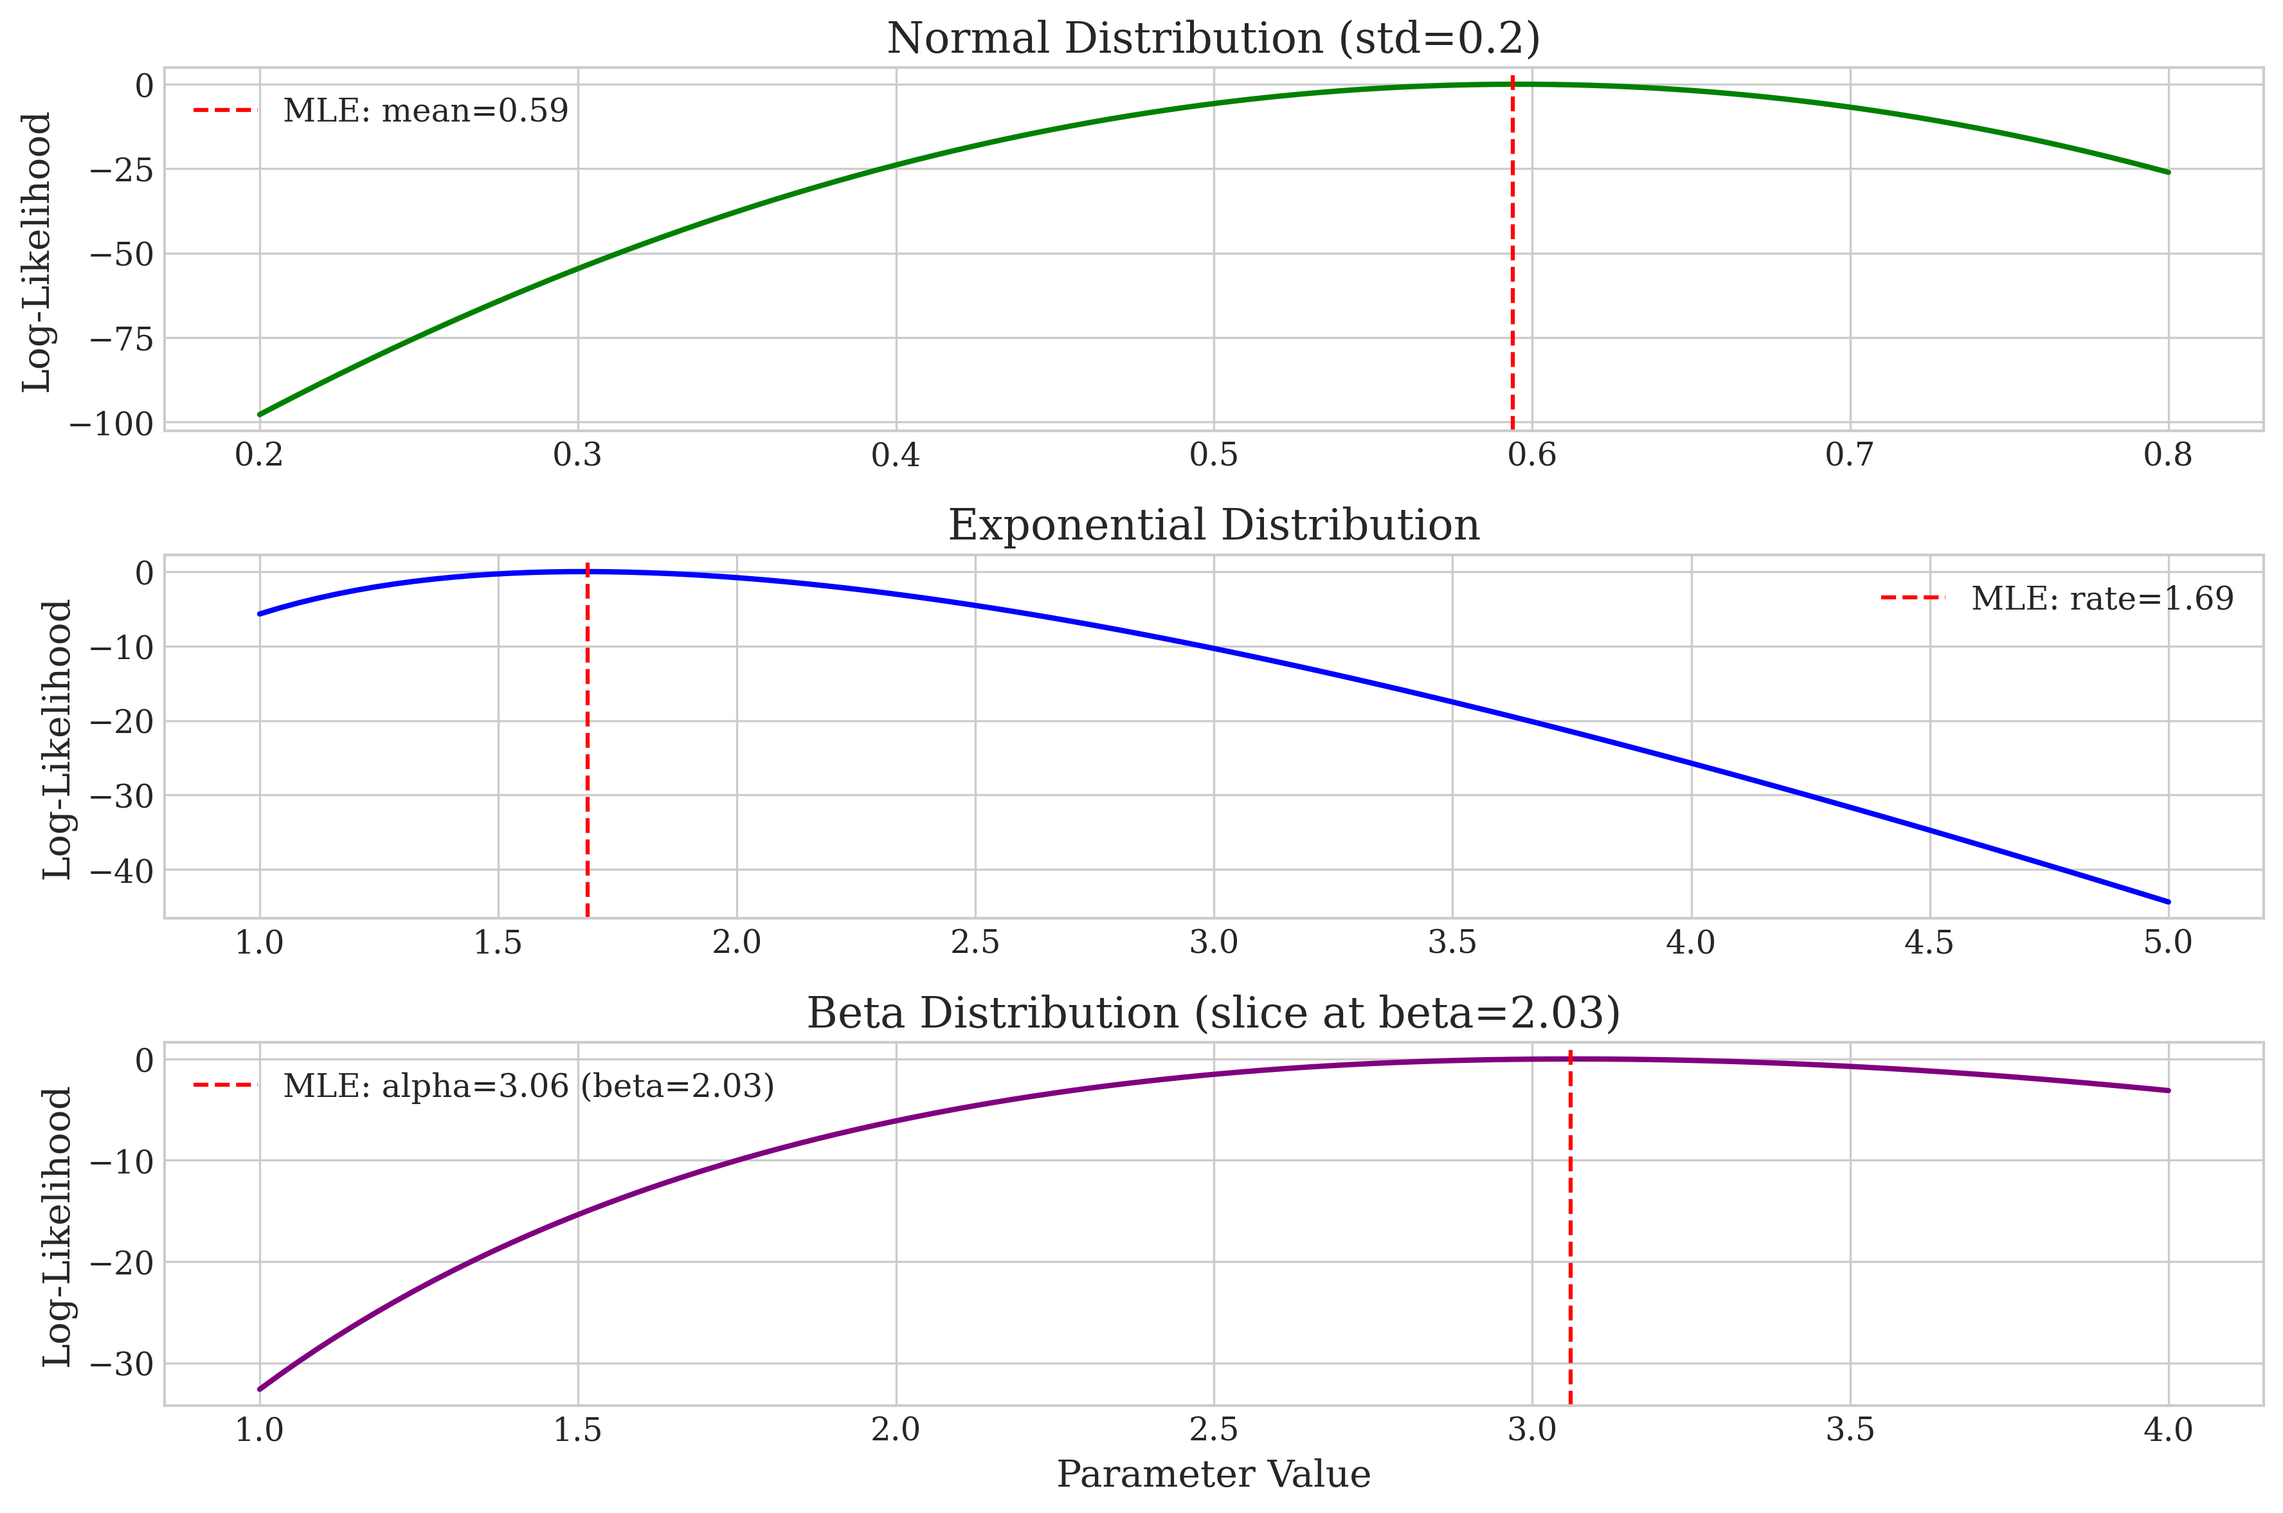
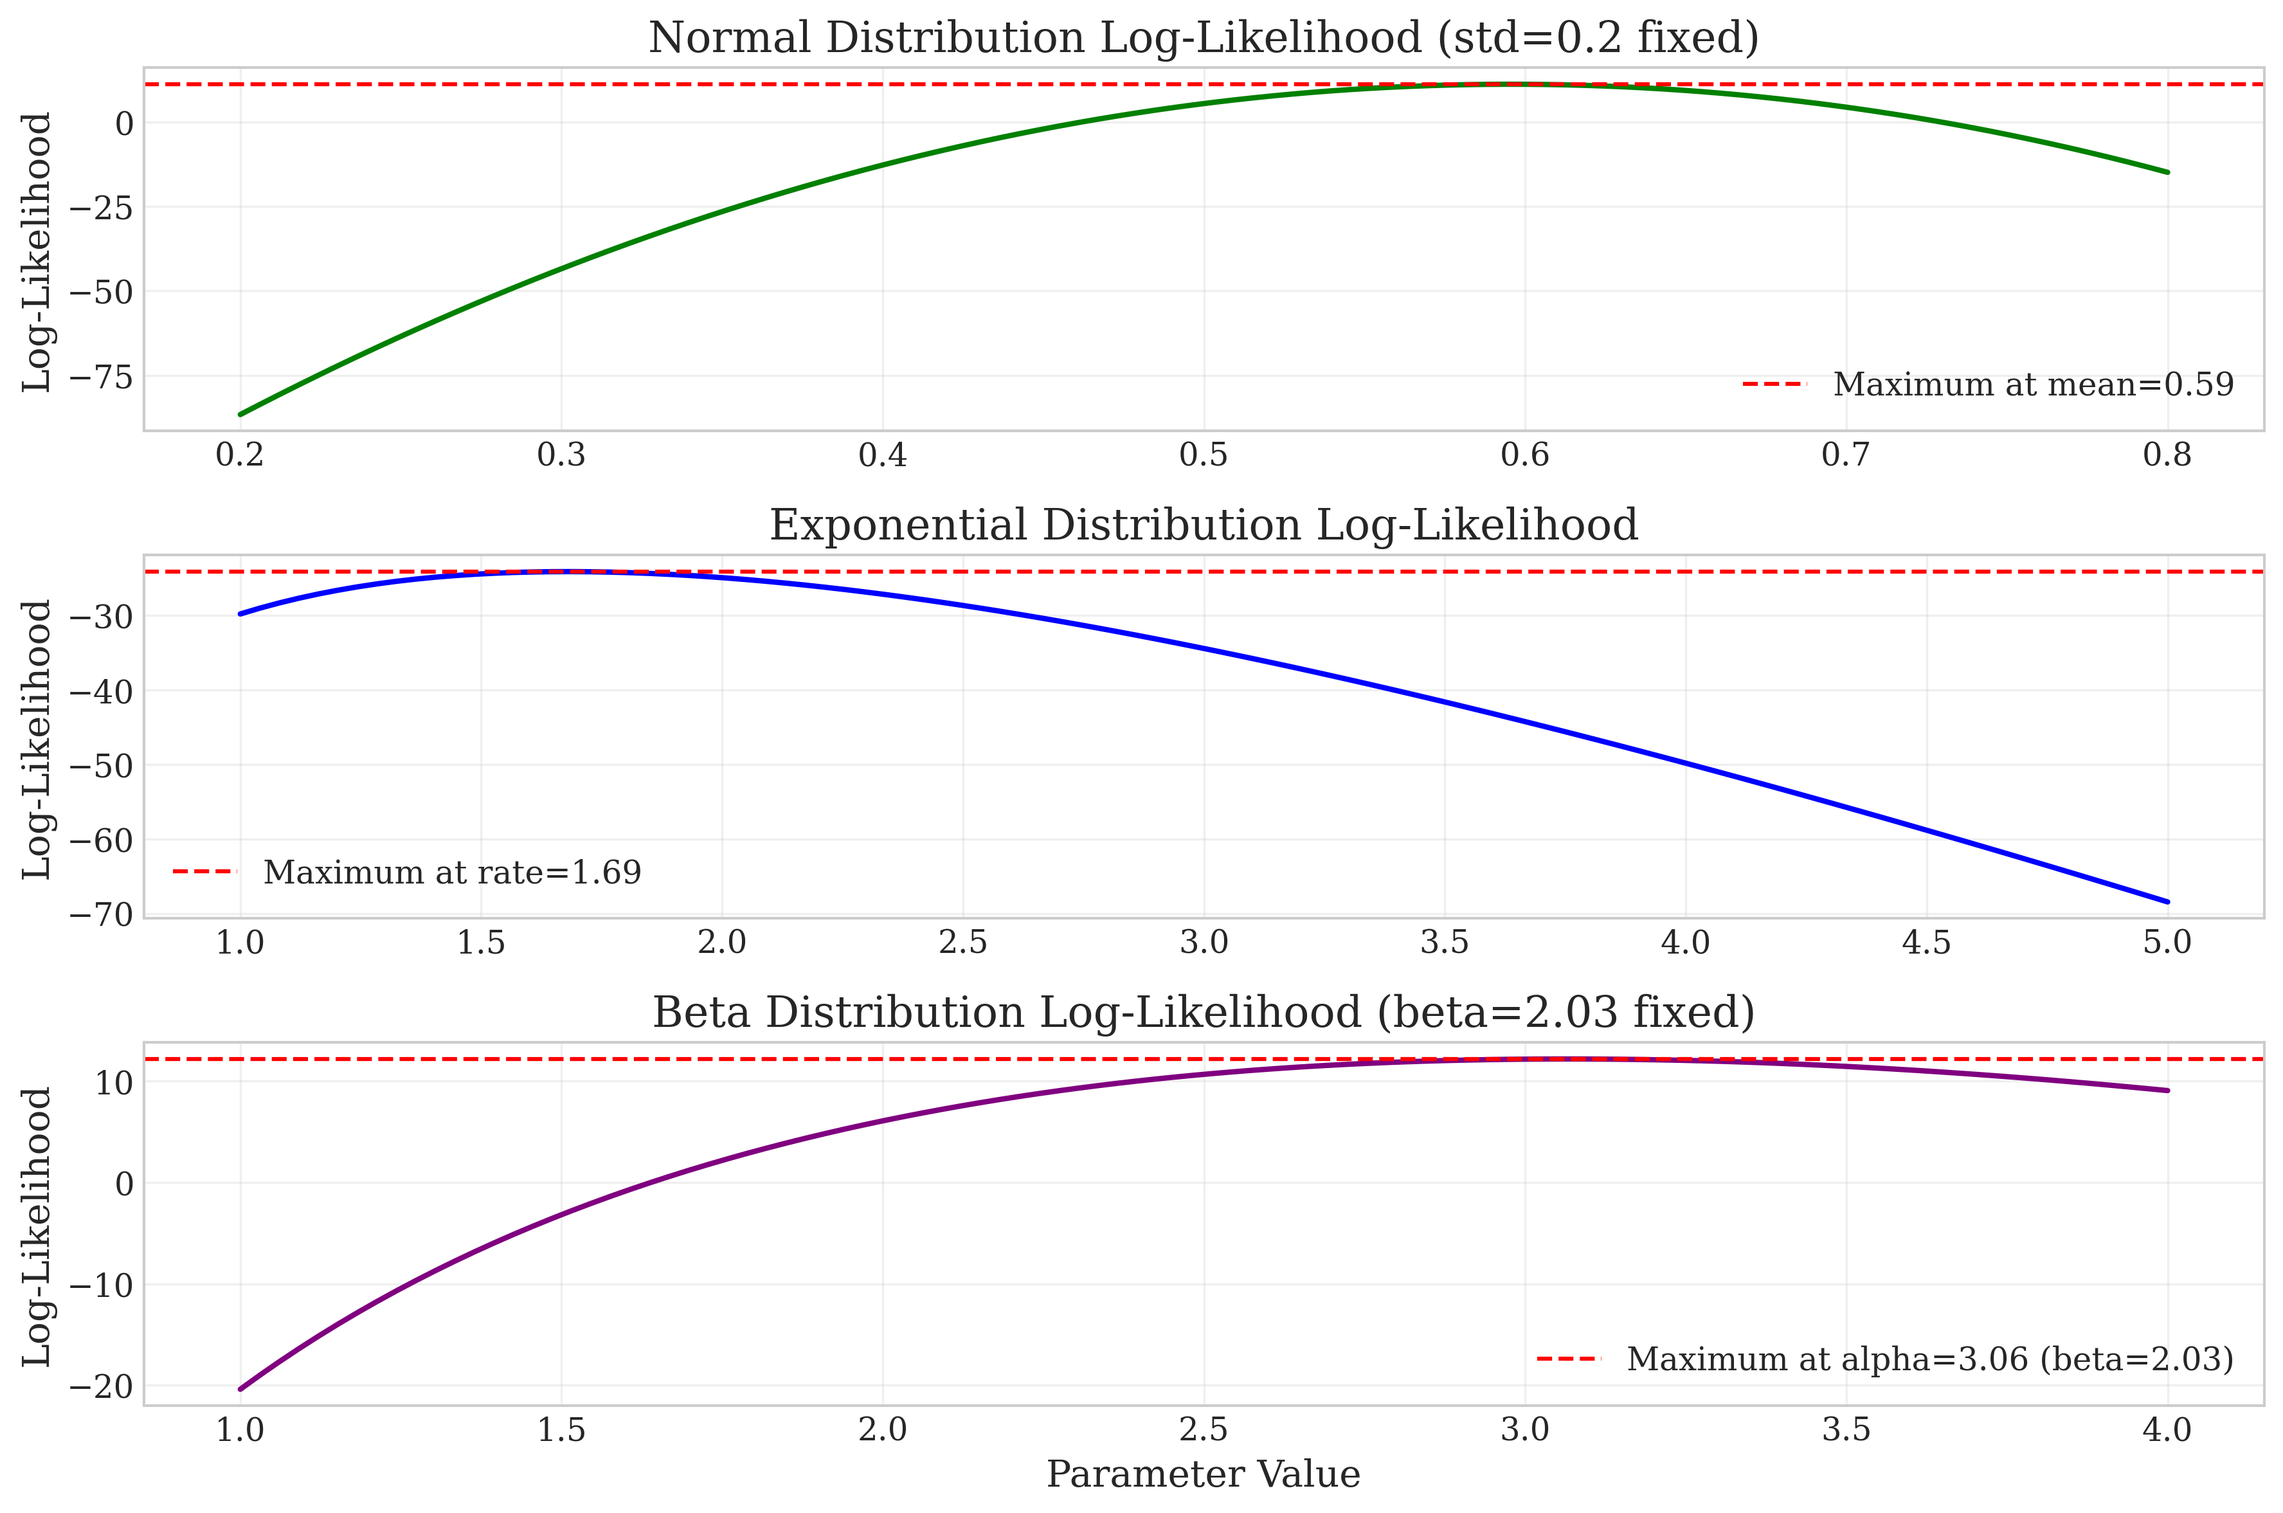
fix

diff --git a/ML_Obsidian_Vault/Lectures/2/Codes/L2_3_Quiz_15_solution.py b/ML_Obsidian_Vault/Lectures/2/Codes/L2_3_Quiz_15_solution.py
@@ -51,8 +51,8 @@ print(f"\nData was originally generated from a Beta({true_alpha}, {true_beta}) d
 print(f"However, in a real scenario, we wouldn't know the true distribution and would need")
 print(f"to determine it from the data, which is the focus of this question.")
 
-# Step 3: Maximum Likelihood Estimation
-print_step_header(3, "Maximum Likelihood Estimation Explanation")
+# Step 3: Understanding Likelihood Functions
+print_step_header(3, "Understanding Likelihood Functions")
 
 # Define parameter grids
 alphas = np.linspace(1, 4, 100)  # For beta distribution
@@ -78,30 +78,31 @@ for i, rate in enumerate(rates):
     # For exponential, we use scale=1/rate in scipy
     exp_logliks[i] = np.sum(np.log(gamma.pdf(data_points, a=1, scale=1/rate) + 1e-10))
 
-# Find the maximum likelihood parameters
+# Find the parameter values that maximize the likelihood
 beta_max_idx = np.unravel_index(np.argmax(beta_logliks), beta_logliks.shape)
-beta_mle_alpha = alphas[beta_max_idx[0]]
-beta_mle_beta = alphas[beta_max_idx[1]]
+beta_optimal_alpha = alphas[beta_max_idx[0]]
+beta_optimal_beta = alphas[beta_max_idx[1]]
 
-normal_mle_mean = means[np.argmax(normal_logliks)]
-exp_mle_rate = rates[np.argmax(exp_logliks)]
+normal_optimal_mean = means[np.argmax(normal_logliks)]
+exp_optimal_rate = rates[np.argmax(exp_logliks)]
 
-print("Maximum Likelihood Estimation (MLE) is a method for estimating the parameters of a")
-print("statistical model. The MLE chooses the parameter values that maximize the likelihood")
-print("function, or equivalently, the log-likelihood function (which is often more convenient).")
-print("\nFor a dataset {x_1, x_2, ..., x_n}, the likelihood function is:")
+print("The likelihood function measures how well a statistical model explains observed data.")
+print("For a dataset {x_1, x_2, ..., x_n}, the likelihood function is:")
 print("    L(θ) = f(x_1, x_2, ..., x_n | θ)")
 print("where f is the probability density function and θ represents the parameters.")
 print("\nAssuming independence, this becomes:")
 print("    L(θ) = ∏_{i=1}^n f(x_i | θ)")
-print("\nThe log-likelihood is:")
+print("\nThe log-likelihood is often used for computational convenience:")
 print("    ℓ(θ) = log L(θ) = ∑_{i=1}^n log f(x_i | θ)")
-print("\nThe maximum likelihood estimate θ_MLE maximizes ℓ(θ).")
-
-print("\nCalculated MLE values:")
-print(f"- Beta distribution: alpha = {beta_mle_alpha:.4f}, beta = {beta_mle_beta:.4f}")
-print(f"- Normal distribution: mean = {normal_mle_mean:.4f}, std = 0.2 (fixed)")
-print(f"- Exponential distribution: rate = {exp_mle_rate:.4f}")
+print("\nKey properties of likelihood functions:")
+print("1. Unlike probability, likelihood is not normalized to sum/integrate to 1")
+print("2. Likelihood measures the compatibility of the data with various parameter values")
+print("3. Parameter values that yield higher likelihood produce distributions that better match the data")
+print("4. The shape of the likelihood function indicates sensitivity to parameter changes")
+print("\nIn our analysis, the parameters that yield maximum likelihood are:")
+print(f"- Beta distribution: alpha = {beta_optimal_alpha:.4f}, beta = {beta_optimal_beta:.4f}")
+print(f"- Normal distribution: mean = {normal_optimal_mean:.4f}, std = 0.2 (fixed)")
+print(f"- Exponential distribution: rate = {exp_optimal_rate:.4f}")
 
 # Step 4: Model Comparison
 print_step_header(4, "Likelihood Ratio Test and Model Selection")
@@ -157,9 +158,9 @@ print_step_header(6, "Visual Assessment of Model Fit")
 
 # Calculate PDFs for the fitted distributions
 x = np.linspace(0, 1, 1000)
-beta_pdf = beta.pdf(x, beta_mle_alpha, beta_mle_beta)
-normal_pdf = norm.pdf(x, normal_mle_mean, 0.2)
-exp_pdf = gamma.pdf(x, a=1, scale=1/exp_mle_rate)  # Exponential as gamma with a=1
+beta_pdf = beta.pdf(x, beta_optimal_alpha, beta_optimal_beta)
+normal_pdf = norm.pdf(x, normal_optimal_mean, 0.2)
+exp_pdf = gamma.pdf(x, a=1, scale=1/exp_optimal_rate)  # Exponential as gamma with a=1
 
 print("Visual assessment of model fit is an important complement to formal statistical methods.")
 print("When examining histogram overlaid with fitted densities, we should consider:")

diff --git a/ML_Obsidian_Vault/Lectures/2/Codes/L2_3_Quiz_15_question.py b/ML_Obsidian_Vault/Lectures/2/Codes/L2_3_Quiz_15_question.py
@@ -108,31 +108,34 @@ normal_max_loglik = np.max(normal_logliks)
 exp_max_loglik = np.max(exp_logliks)
 
 plt.subplot(3, 1, 1)
-plt.plot(means, normal_logliks - normal_max_loglik, 'g-', linewidth=2)
-plt.axvline(x=normal_mle_mean, color='r', linestyle='--', 
-            label=f'MLE: mean={normal_mle_mean:.2f}')
+plt.plot(means, normal_logliks, 'g-', linewidth=2)
+plt.axhline(y=normal_max_loglik, color='r', linestyle='--', 
+            label=f'Maximum at mean={normal_mle_mean:.2f}')
 plt.ylabel('Log-Likelihood')
-plt.title('Normal Distribution (std=0.2)')
+plt.title('Normal Distribution Log-Likelihood (std=0.2 fixed)')
 plt.legend()
+plt.grid(True, alpha=0.3)
 
 plt.subplot(3, 1, 2)
-plt.plot(rates, exp_logliks - exp_max_loglik, 'b-', linewidth=2)
-plt.axvline(x=exp_mle_rate, color='r', linestyle='--', 
-            label=f'MLE: rate={exp_mle_rate:.2f}')
+plt.plot(rates, exp_logliks, 'b-', linewidth=2)
+plt.axhline(y=exp_max_loglik, color='r', linestyle='--', 
+            label=f'Maximum at rate={exp_mle_rate:.2f}')
 plt.ylabel('Log-Likelihood')
-plt.title('Exponential Distribution')
+plt.title('Exponential Distribution Log-Likelihood')
 plt.legend()
+plt.grid(True, alpha=0.3)
 
 plt.subplot(3, 1, 3)
 # For beta, show the slice where beta=mle_beta
 slice_idx = beta_max_idx[1]
-plt.plot(alphas, beta_logliks[:, slice_idx] - beta_max_loglik, 'purple', linewidth=2)
-plt.axvline(x=beta_mle_alpha, color='r', linestyle='--',
-            label=f'MLE: alpha={beta_mle_alpha:.2f} (beta={beta_mle_beta:.2f})')
+plt.plot(alphas, beta_logliks[:, slice_idx], 'purple', linewidth=2)
+plt.axhline(y=beta_logliks[beta_max_idx], color='r', linestyle='--',
+            label=f'Maximum at alpha={beta_mle_alpha:.2f} (beta={beta_mle_beta:.2f})')
 plt.xlabel('Parameter Value')
 plt.ylabel('Log-Likelihood')
-plt.title(f'Beta Distribution (slice at beta={beta_mle_beta:.2f})')
+plt.title(f'Beta Distribution Log-Likelihood (beta={beta_mle_beta:.2f} fixed)')
 plt.legend()
+plt.grid(True, alpha=0.3)
 
 plt.tight_layout()
 save_plot('graph3_loglik_comparisons.png')

diff --git a/ML_Obsidian_Vault/Lectures/2/Quiz/L2_3_15_explanation.md b/ML_Obsidian_Vault/Lectures/2/Quiz/L2_3_15_explanation.md
@@ -13,7 +13,7 @@ A researcher has collected 50 data points on a continuous random variable X, whi
 ## Task
 Using only the information provided in these graphs, answer the following questions:
 
-1. Based on Figure 3, what are the maximum likelihood estimates for the parameters of each distribution model?
+1. Based on Figure 3, explain how the likelihood function responds to changes in parameter values for each distribution model. Why does the likelihood function peak at certain parameter values?
 2. According to Figure 6, which distribution family best fits the observed data? Explain your reasoning.
 3. Looking at Figure 4, visually assess how well each fitted distribution matches the observed data histogram.
 4. Using Figure 5, explain the key difference between probability and likelihood in your own words.
@@ -21,15 +21,17 @@ Using only the information provided in these graphs, answer the following questi
 
 ## Solution
 
-### Question 1: Maximum Likelihood Estimates
+### Question 1: Likelihood Function Behavior
 
-From Figure 3 (Log-Likelihood Comparisons), we can read the MLE values for each distribution:
+From Figure 3 (Log-Likelihood Comparisons), we can observe how the likelihood function changes as parameter values vary for each distribution:
 
-- **Normal Distribution**: mean = 0.59
-- **Exponential Distribution**: rate = 1.69
-- **Beta Distribution**: alpha = 3.06, beta = 2.03
+- **Normal Distribution**: The likelihood function forms a smooth curve that peaks when the mean parameter is around 0.59. This peak indicates that this parameter value makes the observed data most probable under a Normal distribution model with fixed standard deviation of 0.2. As we move away from this optimal value, the likelihood decreases, showing that these alternative parameter values make the observed data less likely.
 
-These are the parameter values that maximize the log-likelihood function for each distribution family. The vertical red dashed lines in each plot indicate these MLE values.
+- **Exponential Distribution**: The likelihood function for the rate parameter shows a clear peak around 1.69. The steeper drop-off to the left indicates that very small rate values (which would create a more spread-out distribution) are particularly unlikely to have generated the observed data. The more gradual decrease to the right suggests that larger rate values (creating more concentrated distributions) are somewhat more plausible but still less likely than the optimal value.
+
+- **Beta Distribution**: When we fix the beta parameter at approximately 2.03, the likelihood function for the alpha parameter peaks near 3.06. The shape of this curve demonstrates how sensitive the model fit is to changes in the alpha parameter, with the likelihood falling off more rapidly for smaller alpha values than for larger ones.
+
+The likelihood function peaks at certain parameter values because these are the values that make the observed data most probable under each distribution model. For continuous distributions, the likelihood function is calculated by evaluating the probability density function at each observed data point and taking the product (or sum of logarithms for computational stability). The parameter values that maximize this product are those that best align the distribution's shape with the pattern of observed data.
 
 ### Question 2: Best-Fitting Distribution
 

diff --git a/ML_Obsidian_Vault/Lectures/2/Quiz/L2_3_Quiz_course.md b/ML_Obsidian_Vault/Lectures/2/Quiz/L2_3_Quiz_course.md
@@ -1,7 +1,7 @@
 # Lecture 2.3: Statistical Estimation Basics Quiz
 
 ## Overview
-This quiz contains 10 questions from different topics covered in section 2.3 of the lectures on Likelihood and Estimation.
+This quiz contains 11 questions from different topics covered in section 2.3 of the lectures on Likelihood and Estimation.
 
 ## Question 1
 
@@ -125,3 +125,26 @@ For a random sample $X_1, X_2, \ldots, X_n$ from a distribution with unknown mea
 Calculate the bias and variance of this estimator.
 
 For a detailed explanation of this question, see [Question 10: Bias and Variance of Estimators](L2_3_13_explanation.md).
+
+## Question 11
+
+### Problem Statement
+A researcher has collected 50 data points on a continuous random variable X, which takes values between 0 and 1. The researcher wants to determine the best probabilistic model for this data by comparing three different distribution families: Beta, Normal, and Exponential. The following figures show different aspects of the likelihood analysis.
+
+![Data Histogram](../Images/L2_3_Quiz_15/graph1_data_histogram.png)
+![Beta Log-Likelihood Contour](../Images/L2_3_Quiz_15/graph2_beta_loglik_contour.png)
+![Log-Likelihood Comparisons](../Images/L2_3_Quiz_15/graph3_loglik_comparisons.png)
+![Fitted PDFs](../Images/L2_3_Quiz_15/graph4_fitted_pdfs.png)
+![Probability vs Likelihood](../Images/L2_3_Quiz_15/graph5_probability_vs_likelihood.png)
+![Likelihood Ratio Comparison](../Images/L2_3_Quiz_15/graph6_likelihood_ratio.png)
+
+#### Task
+Using only the information provided in these graphs, answer the following questions:
+
+1. Based on Figure 3, explain how the likelihood function responds to changes in parameter values for each distribution model. Why does the likelihood function peak at certain parameter values?
+2. According to Figure 6, which distribution family best fits the observed data? Explain your reasoning.
+3. Looking at Figure 4, visually assess how well each fitted distribution matches the observed data histogram.
+4. Using Figure 5, explain the key difference between probability and likelihood in your own words.
+5. Based on all the information provided, which distribution would you recommend using to model this data? Justify your answer.
+
+For a detailed explanation of this question, see [Question 11: Likelihood Functions and Distribution Fitting](L2_3_15_explanation.md).

diff --git a/ML_Obsidian_Vault/Lectures/2/Quiz/L2_3_Quiz.md b/ML_Obsidian_Vault/Lectures/2/Quiz/L2_3_Quiz.md
@@ -1,7 +1,7 @@
 # Lecture 2.3: Statistical Estimation Basics Quiz
 
 ## Overview
-This quiz contains 14 questions from different topics covered in section 2.3 of the lectures on Likelihood and Estimation.
+This quiz contains 15 questions from different topics covered in section 2.3 of the lectures on Likelihood and Estimation.
 
 ## Question 1
 
@@ -199,7 +199,7 @@ A researcher has collected 50 data points on a continuous random variable X, whi
 #### Task
 Using only the information provided in these graphs, answer the following questions:
 
-1. Based on Figure 3, what are the maximum likelihood estimates for the parameters of each distribution model?
+1. Based on Figure 3, explain how the likelihood function responds to changes in parameter values for each distribution model. Why does the likelihood function peak at certain parameter values?
 2. According to Figure 6, which distribution family best fits the observed data? Explain your reasoning.
 3. Looking at Figure 4, visually assess how well each fitted distribution matches the observed data histogram.
 4. Using Figure 5, explain the key difference between probability and likelihood in your own words.
